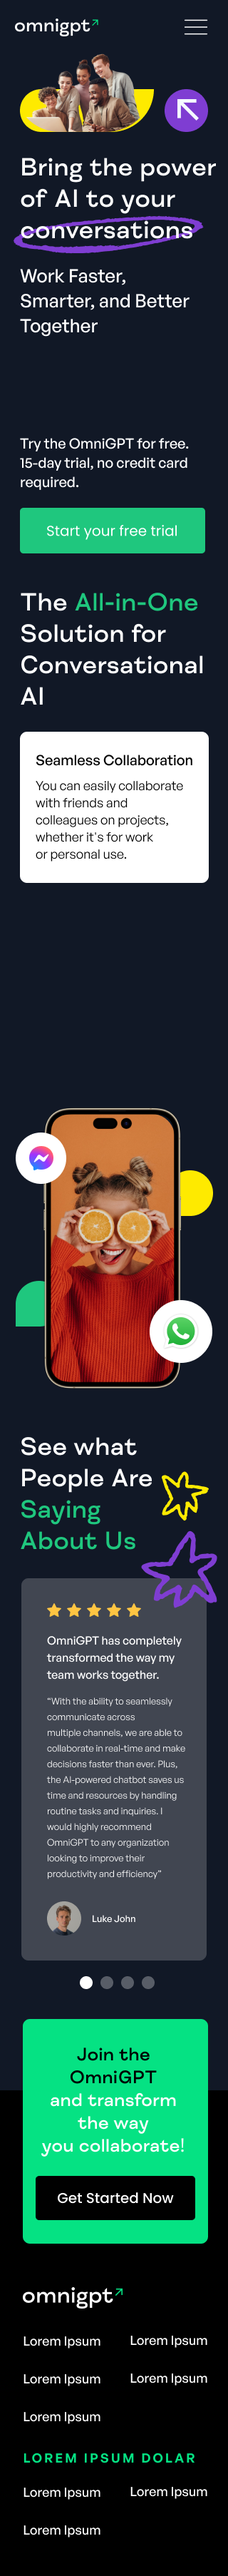
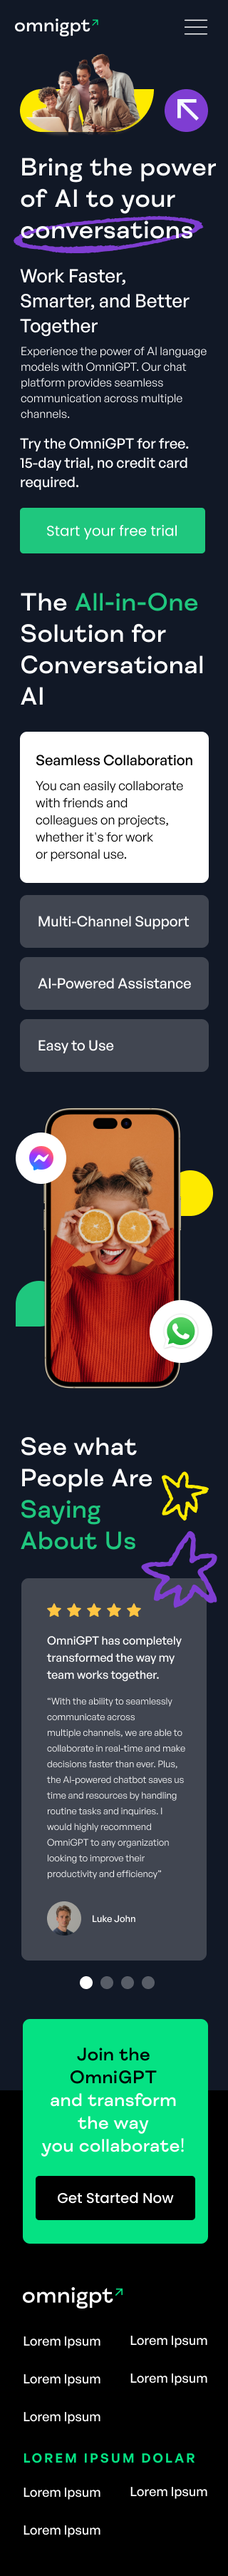
sec two and three done

Changed region(s): [[0.0625, 0.3411, 0.9375, 0.4341], [0.0938, 0.124, 0.8125, 0.155]]

diff --git a/index.css b/index.css
@@ -112,6 +112,11 @@ body {
     display: none;
 }
 
+.right_col,
+.left_col {
+    margin: 0;
+}
+
 .left_col {
     position: relative;
 }
@@ -142,6 +147,19 @@ button {
     margin: 0 auto;
     display: block;
     font-weight: 100;
+    cursor: pointer;
+}
+
+.sec_two {
+    display: none;
+}
+
+/* sec_three style layout */
+.black_txt {
+    background-color: #fff;
+    color: #000;
+    padding: 1rem;
+    border-radius: 15px
 }
 
 
@@ -168,6 +186,11 @@ ul li {
     margin-top: 0;
 }
 
+.left_col_text,
+.right_column h1 {
+    font-family: 'FS Meridian Trial';
+}
+
 br {
     display: none;
 }
@@ -189,6 +212,39 @@ br {
 .container h3 {
    font-size: 1em;
 }
+
+.right_column h1 {
+    font-size: 2em;
+}
+
+.green_txt{
+    color: #1FC77E;
+}
+
+.sec_three br {
+    display: block;
+}
+
+.black_txt h3 {
+    font-weight: 800;
+    text-align: center;
+    font-size: 1.5em;
+}
+
+.black_txt p {
+    padding: 1rem 1.1rem;
+    text-align: left;
+    font-size: 1.3em;
+    margin-top: -2rem;
+}
+
+.container .arsh_bg {
+    background-color: #414651;
+    padding: 2rem 1.5rem;
+    border-radius: 15px;
+    font-size: 1.5em;
+}
+
 
 
 
@@ -389,22 +445,78 @@ br {
         left: 3rem;
     }
 
+         /* section_two layout style */
     .sec_two {
         margin-top: 9rem;
+        display: block;
     }
 
     .black_bg {
         background-color: #000;
+        position: relative;
     }
 
     .pro_max {
         display: block;
         margin: 0 auto;
-        margin-bottom: -2rem;
+        margin-bottom: -3.5rem;
         margin-top: 2.5rem;
-        background-color: #fff;
+        background-color: #ffffffeb;
         border-top-left-radius: 57px;
         border-top-right-radius: 57px;
+    }
+
+    .iphone_bars {
+        position: relative;
+    }
+
+    .iphone_bars .iphone_time {
+        position: absolute;
+        bottom: 24.5rem;
+        left: 29rem;
+    }
+
+    .bar_icons {
+        position: relative;
+        top: -25rem;
+        left: 39.5rem;
+    }
+
+    .pro_bars {
+        width: 20px;
+    }
+
+    .whatsapp_sec {
+        padding: 0.5rem;
+        position: absolute;
+        width: 23.5%;
+        top: 8rem;
+        left: 28.7rem;
+        background: transparent;
+        border-bottom: 2px solid #ccc;
+    }
+
+    .whatsapp_typing {
+        display: flex;
+        justify-content: space-evenly;
+        align-items: center;
+    }
+
+    .omni-and-backarrow {
+        display: flex;
+        align-items: center;
+        gap: 10px;
+        margin-left: 0.5rem;
+    }
+
+    .video-audio {
+        margin-left: 4rem;
+    }
+
+    .type_msg {
+        position: absolute;
+        bottom: 2rem;
+        left: 13rem;
     }
 
     /* typography */
@@ -439,4 +551,11 @@ br {
    .flex_text2 p {
     opacity: 50%;
    }
+
+   .iphone_bars .iphone_time {
+    font-size: .9em;
+    color: #000;
+    font-weight: 700;
+    font-family: sans-serif;
+}
 }

diff --git a/index.html b/index.html
@@ -87,6 +87,61 @@
                 <div class="iphone_max">
                     <img class="pro_max" src="images/iphone14pro.png" alt="iphone14 mockup">
                 </div>
+
+                <div class="iphone_bars">
+                        <p class="iphone_time">14:26</p>
+                    <div class="bar_icons">
+                        <img class="pro_bars" src="images/network2.png" alt="network icon">
+                        <img src="images/wifi.png" alt="wifi icon" class="pro_bars">
+                        <img src="images/battery.png" alt="" class="pro_bars">
+                    </div>
+                </div>
+
+                <div class="whatsapp_sec">
+                    <div class="whatsapp_typing">
+                        <div class="omni-and-backarrow">
+                            <img src="images/backarrow-msg.png" alt="backarrow-msg" class="backarrw">
+                            <img src="images/call-OmniGPT.png" alt="omni icon typing" class="omni">
+                        </div>
+                        
+                        <div class="video-audio">
+                            <img src="images/video-audio-call.png" alt="video-audio-call icon" class="video_audio">
+                        </div>   
+                    </div>
+                </div>
+
+                <div class="type_msg">
+                    <img src="images/Type a message.png" alt="message bar" class="typmsg">
+                </div>
+            </div>
+        </section>
+
+
+
+        <section class="sec_three">
+            <div class="container double_col">
+                <div class="right_column">
+                    <h1>The 
+                        <span class="green_txt">All-in-one</span>
+                        Solution for Conversational </br> AI
+                    </h1>
+
+                    <div class="black_txt">
+                        <h3>Seamless Collaboration</h3>
+                        <p>
+                            You can easily collaborate with friends and colleagues on project,
+                            whether it's for work or personal use.
+                        </p>
+                    </div>
+                    
+                    <h3 class="arsh_bg">Multi_Channel Support</h3>
+                    <h3 class="arsh_bg">AI-Powered Assitance</h3>
+                    <h3 class="arsh_bg">Easy to Use</h3>
+                </div>
+
+                <div class="left_column">
+                    
+                </div>
             </div>
         </section>
 
